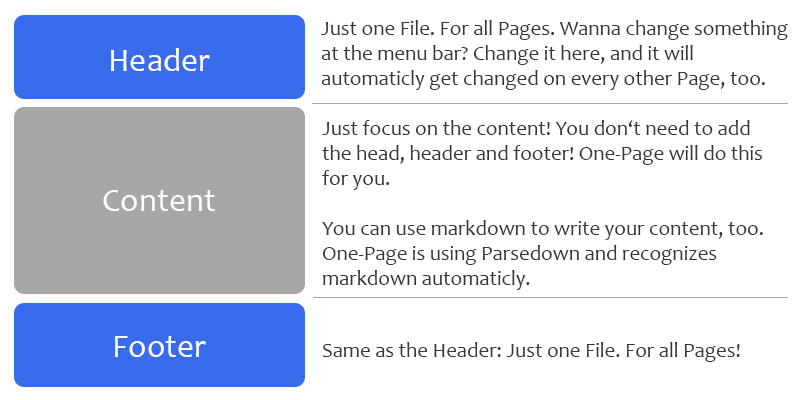
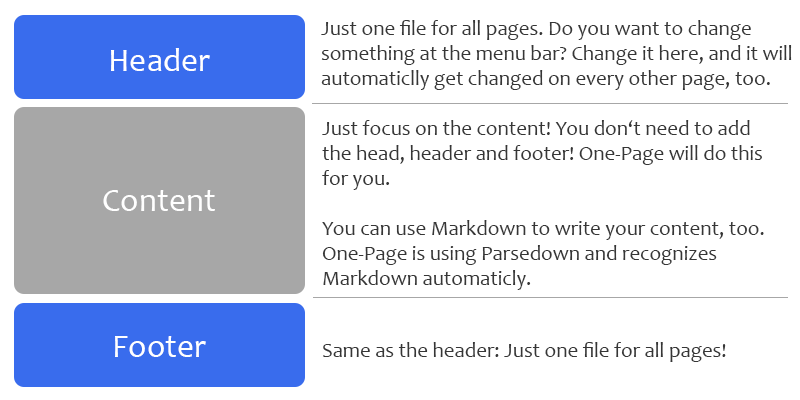
Translation

diff --git a/pages/html-example.html b/pages/html-example.html
@@ -1,7 +1,7 @@
 <main>
 
     <h1>HTML!</h1>
-    <p>Don't forget to add the main-tags when u are using php or html!</p>
+    <p>Don't forget to add the main tags when you are using php or html!</p>
     
 
 

diff --git a/pages/startpage.html b/pages/startpage.html
@@ -1,4 +1,4 @@
-<!-- Tip: You can use a Markdown-Site aswell! :) -->
+<!-- Tip: You can use a Markdown-page as well! :) -->
 
 <main>
 <h1>Default start page</h1>

diff --git a/css/main.css b/css/main.css
@@ -1,4 +1,4 @@
-/* Default Style */
+/* default style */
 
 body {
     margin: 0;

diff --git a/config.php b/config.php
@@ -4,15 +4,15 @@
 
 <?php
 
-# Main Domain (No "/" at the End!)
+# Main domain (No "/" at the End!)
 $main_domain = "http://localhost"; 
 
-# <title>-Name
+# <title>-name
 $page_name = "OnePage";
 
-# Experimental Path: (case-sensitive!)
+# Experimental path: (case-sensitive!)
 $experimental_path = "/GitHub/one-page"; # [Leave blank, if you are using the main directory!]
 # Example:
-# $experimental_path = "/one-page"; [Starting with a "/"!]
+# $experimental_path = "/one-page"; [starting with a "/"!]
 
 ?>

diff --git a/header.php b/header.php
@@ -1,10 +1,10 @@
 <!-- -=-=-=-=-=-=-=-=-=-=-=-=-=-=-=-=-=- -->
-<!-- Build your Header (Menu-Bar) here!  -->
+<!-- Build your header (menu bar) here!  -->
 <!-- -=-=-=-=-=-=-=-=-=-=-=-=-=-=-=-=-=- -->
 
 <header>
     
-    <!-- [Example Menu-Bar] -->
+    <!-- [Example menu bar] -->
     <a href ="startpage">Home</a> -
     <a href ="markdown-example">Markdown Example</a> -
     <a href ="html-example">HTML Example</a> - 

diff --git a/head.php b/head.php
@@ -1,4 +1,4 @@
 <link rel="shortcut icon" type="image/x-icon" href="<?php echo $main_domain.$experimental_path; ?>/img/favicon.ico">
 <link rel="stylesheet" href="<?php echo $main_domain.$experimental_path; ?>/css/main.css">
 
-<!-- Add custom Head-Tags below! (You don't need to add a <title>-Tag) -->
+<!-- Add custom head-tags below! (You don't need to add a <title>-tag) -->

diff --git a/footer.php b/footer.php
@@ -1,9 +1,9 @@
 <!-- -=-=-=-=-=-=-=-=-=-=-=- -->
-<!-- Build your Footer here! -->
+<!-- Build your footer here! -->
 <!-- -=-=-=-=-=-=-=-=-=-=-=- -->
 
 <footer>
     
-    &copy; OnePage
+    &copy; OnePage - Example
     
 </footer>

diff --git a/README.md b/README.md
@@ -1,5 +1,5 @@
 # ONE-PAGE
-Building a website? Annoyed of changing the menu bar on every single page separately? Just because of one tiny typo? One-Page will help you out: Just focus on the content!
+Building a website? Annoyed about changing the menu bar on every single page separately? Just because of one tiny typo? **One-Page** will help you out and you simply have to focus on the content!
 
 ![](/img/tutorial1.png)
 
@@ -8,14 +8,14 @@ Building a website? Annoyed of changing the menu bar on every single page separa
 ### Installing One-Page
 _See release notes, if you want to upgrade to a newer version!_
 
-1. Goto `https://github.com/CrazyEasy/one-page/releases` and download the latest release.
+1. Go to `https://github.com/CrazyEasy/one-page/releases` and download the latest release.
 2. Put it into your main directory.
 
-### Configurate One-Page
+### Configuration
 Open `config.php`:
 
-- **`$main_domain`**: Just set it to your domain/url!
-- **`$page_name`**: Enter your page-name (One-Page will use it to generate the website-title!)
+- **`$main_domain`**: Just set it onto your domain/url!
+- **`$page_name`**: Enter the name of your page (One-Page will use it to generate the website-title!)
 - **`$experimental_path`**: If you are not using the main directory, add your sub-directory here. [Beta]
 
 Example ``config.php``:
@@ -47,16 +47,17 @@ ErrorDocument 500 /sub-directory/index.php?p=500
 ```
 
 ## Create a new page
-### using MarkDown:
+### using Markdown:
 
-- Goto the `pages/`-folder
-- Create a markdown-file, the file-name will be the URL. (Example: `example-page.md`)<br>**Important:** Only use <u>lowercase</u> letters in the filename!
-- Write your content in the file.
-- Done! You will find your web-page at `example.com/example-page`.
+- Go to the `pages/`-folder
+- Create a Markdown-file, the name of the file will be the URL. (Example: `example-page.md`)<br>
+  **Important:** Only use <u>lowercase</u> letters in the filename!
+- Just write any content you want in the file.
+- Done! You will find your web page at `example.com/example-page`.
 
 ### using HTML / PHP:
-- Goto the `pages/`-folder
-- Create a new file, the file-name will be the URL. (Example: `example-page2.html`)<br>**Important:** Only use <u>lowercase</u> letters in the filename!
+- Go to the `pages/`-folder
+- Create a new file, the name of the file will be the URL. (Example: `example-page2.html`)<br>**Important:** Only use <u>lowercase</u> letters in the filename!
 - Put your content between `<main>`&`</main>`<br>
   **Example:**
  ```html
@@ -65,20 +66,20 @@ ErrorDocument 500 /sub-directory/index.php?p=500
     <!-- More Content-->
   </main>
  ```
-- Done! You will find your web-page at `example.com/example-page2`.
+- Done! You will find your web page at `example.com/example-page2`.
 
-## Change Footer / Header
+## Change footer / header
 Very simple: 
 - open `footer.php` if you want to change your footer,
 - open `header.php` if you want to change your header!
 :)
 
-## Change the Design
+## Change the design
 Simple, again:
 - You will find a folder named `css/`,
-- in there you will find `main.css`.
-- Just change the style how you like ;)
+- In the folder you will find a file named `main.css`.
+- Just change the style how you like!
 
 ---
 
-If you have any questions, feel free to ask!
+If you have any questions, feel free to ask! ;)
